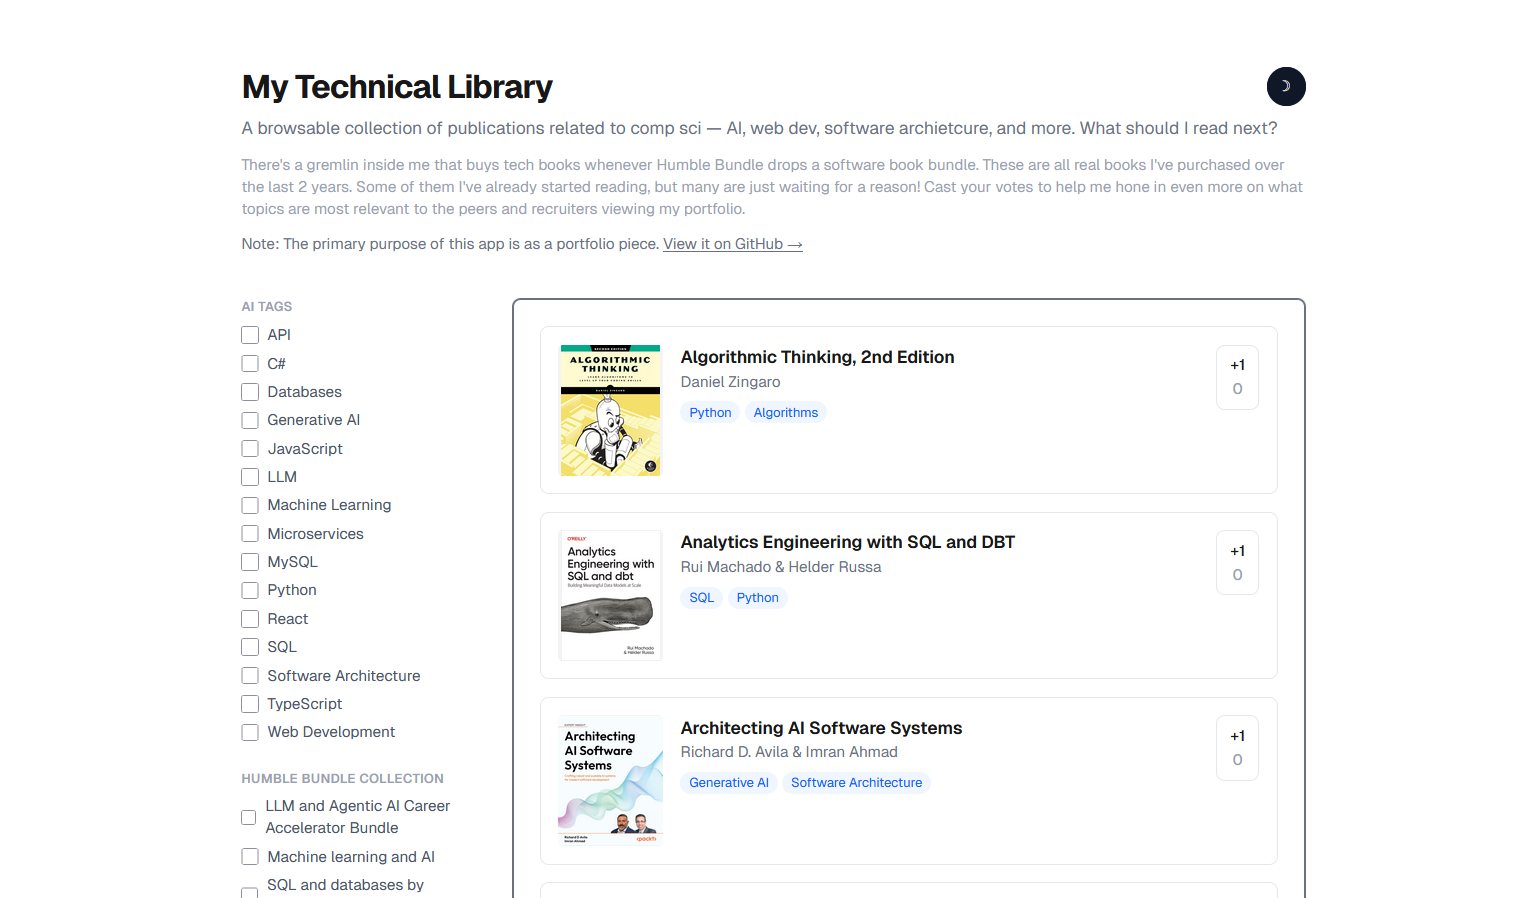
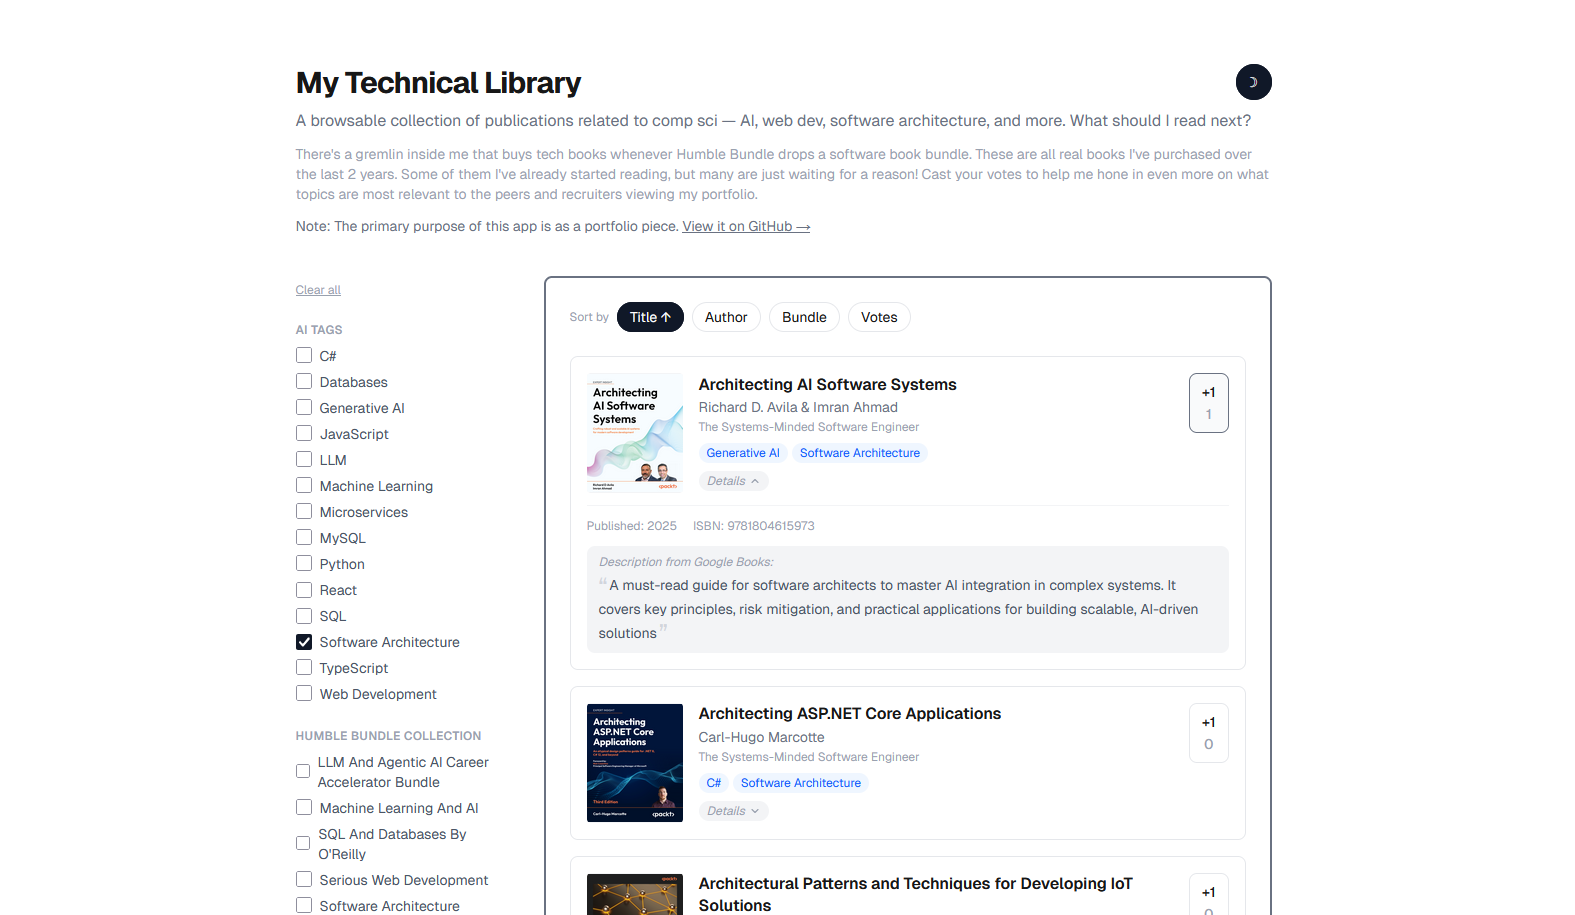
Update readmes, text copies, and screenshot

diff --git a/bookshelf/app/components/BookShelf.tsx b/bookshelf/app/components/BookShelf.tsx
@@ -22,7 +22,7 @@ function IntroText() {
         A browsable collection of publications related to comp sci — AI, web dev, software architecture, and more. What should I read next?
       </p>
       <p className="text-sm text-gray-400 dark:text-gray-500 mt-3">
-        There&apos;s a gremlin inside me that buys tech books whenever Humble Bundle drops a software book bundle. These are all real books I&apos;ve purchased over the last 2 years. Some of them I&apos;ve already started reading, but many are just waiting for a reason! Cast your votes to help me hone in even more on what topics are most relevant to the peers and recruiters viewing my portfolio.{" "}
+        I can&apos;t resist a good Humble Bundle, and that especially includes tech books. Below you will find an interface for browsing all the ones I&apos;ve bought so far, between the various bundles they&apos;ve put out the past few years. Some of these titles I&apos;ve already started reading, but many are just waiting for a reason! Cast your votes to help me hone in even more on what topics are most relevant to the peers and recruiters viewing my portfolio.{" "}
       </p>
       <p className="text-sm text-gray-500 dark:text-gray-500 mt-3">
         Note: The primary purpose of this app is as a portfolio piece.{"  "}

diff --git a/README.md b/README.md
@@ -1,47 +1,70 @@
 # demos
 
-A portfolio built around one project, where I organize and display a bunch of technical books, 
-and where site visitors can provide feedback on which ones tackle skills they're actually
+A portfolio project where I organize and display a bunch of technical books, and 
+where site visitors can provide feedback on which ones tackle skills they're actually
 interested in, adding to an aggregate vote count that reflects general interest.
 
-There's a gremlin inside me that collects nonfiction books in general, but I usually let it win
-whenever Humble Bundle drops a software bundle. The result is a folder of epubs I legitimately
-own and wanted a real interface for. All books in the app are actual books that I own, and all 
-votes reflect real site visitors clicking on buttons over time.
+[Humble Bundle](https://www.humblebundle.com/) is a website that often offer "bundles"
+of games, software, and books, on a myriad of topics. Bundles are often heavily 
+discounted, and a portion of the proceeds go to a particular charity for each bundle.
+As a lover of all books nonfiction, I've gotten most of their tech-related book bundles
+over the last few years. However, many of the books are very topic-specific, and while
+certain titles caught my attention from the get-go, many are as-of-yet unread. 
 
-The app demonstrates full-stack Next.js, Redis-backed data, a Python and TypeScript processing 
-pipeline, and AI engineering as features land. It's also a small piece of public art: anyone
-who visits can see the current vote counts, and what topics have the most interest so far.
+Most of my prior work in the industry has been proprietary, and was left behind with 
+each job transition. Since I am back on the hunt for my next opportunity, I wanted to 
+put together a public repo and live demo, and I figured a bookshelf app with a voting 
+system would make a simple but interesting concept to build around - data ingestion, 
+persistent storage, local state, responsive UI, sorting and filtering logic. All books 
+in the app are actual books that I own, and all votes reflect real site visitors 
+clicking on buttons over time.
 
-## [BookShelf](./bookshelf/) — [live demo](https://demos.maejoh.io/)
+The app demonstrates full-stack Next.js, Redis-backed data (Upstash), a Python and 
+TypeScript processing pipeline. Part of the pipeline also makes calls to the Google 
+Books API, to get book descriptions and fill in missing metadata from the epubs, as 
+well as the Anthropic API, to request an LLM to choose and assign topic tags for the 
+library (referred to as AI tags).
+
+## BookShelf — [live demo](https://demos.maejoh.io/)
 
 ![BookShelf screenshot](./bookshelf/public/demo-screenshot.png)
+
+For more technical details and diagrams, please see the README in the [./bookshelf](./bookshelf) directory. 
 
 ## What's built
 
 - Browsable library with cover art, metadata, and per-book upvotes
-- Redis data store, namespaced by environment (prod / dev / preview)
+- Redis data store, namespaced by environment (prod / dev / prev)
 - Python epub pipeline: OPF extraction → Google Books API enrichment → Redis seed
 - AI tagging via Anthropic API: two-pass vocabulary discovery + bulk assignment across the full library
 
 ## What's coming
 
-- **LLM features** — title recommendations, job description matching, natural language queries
-- **MCP server** — TODO
+- **LLM features** — book recommendations, job description matching, natural language queries
+- **MCP server** — endpoints to enable querying the library and interacting with other LLM features from the UI, but programmatically 
 
 ---
 
 ## Development workflow
 
-This repo uses a customized subset of [garrytan/gstack](https://github.com/garrytan/gstack)
-skills for Claude Code, committed to `.claude/skills/` and auto-discovered — no install
-needed.
+I spent my first 5 years post-graduation coding without AI. I believe that has made an
+enormous difference in my ability to effectively code with AI, and this project was vastly
+expedited by use of Claude Code, generally from the CLI. I work in small steps so that all 
+changes can be reviewed personally, and I frequently correct or redirect the AI when needed, or 
+even just asking for more details and resources so I can properly evaluate what has been written. 
+I still lean heavily on my past experience in similar (if larger) code bases, and have included
+unit tests with coverage tools and sensible splitting of components and standalone logic. I keep 
+the dev server running as I work, and run the unit tests and try out the UI manually as I go, making sure
+to follow the same good principles and practices I would if coding by hand.
+
+In addition to Claude Code's built-in abilities, this repo also uses a customized subset of 
+[garrytan/gstack](https://github.com/garrytan/gstack) skills for Claude Code. These modified skills are 
+included in the repo for viewing, and the customizations summarized below. I have found /plan-ceo-review 
+and /plan-eng-review to be particularly helpful. 
 
 | Skill | Source | Customized? |
 |---|---|---|
 | `/plan-ceo-review` | gstack v1.0.0 | Adapted for TypeScript/Next.js (removed Rails-specific sections) |
 | `/plan-eng-review` | gstack v1.0.0 | Adapted for TypeScript/Next.js (removed Rails-specific sections) |
 | `/review` | gstack v1.0.0 | Greptile integration removed; checklist path updated |
-| `/qa` | gstack v1.0.0 | Template file references removed (files not included) |
-| `/ship` | gstack v1.0.0 | **Heavily customized** — Rails/evals/Greptile/VERSION/CHANGELOG automation removed; replaced with `npm run build` + `npm run lint` per subfolder |
-| `review/checklist.md` | — | **Written from scratch** — portfolio-specific criteria (secrets, build integrity, live+linkable+self-explanatory) |
+| `review/checklist.md` | — | **Written from scratch** |

diff --git a/.claude/skills/review/checklist.md b/.claude/skills/review/checklist.md
@@ -5,31 +5,33 @@
 ### Secrets & Security
 - DO flag: hardcoded API keys, tokens, or credentials in the diff
 - DO flag: `.env` or `.env.local` files added or modified in the diff
-- DO flag: sensitive values in `scripts/book_details.json` or similar data files committed to the repo
+- DO flag: sensitive values in `scripts/output/book_details.json` or similar data files committed to the repo
 
 ### Build integrity
 - DO flag: TypeScript errors that would cause `tsc --noEmit` to fail
 - DO flag: imports referencing modules that don't exist in the diff
 - DO flag: broken Next.js API route handlers (missing default export or wrong handler signature)
 - DO flag: `next.config.ts` changes that could break the Vercel build
+- DO flag: new Python dependencies used in `scripts/book_pipeline/` but not added to `requirements.txt`
 
 ### Portfolio criteria
 - DO flag: hardcoded `localhost` URLs or ports in code that will be deployed to Vercel
 - DO flag: demo pages that require user authentication to view (demos must be publicly accessible)
-- DO flag: missing `README.md` in a newly added demo subfolder
+
+### LLM trust boundary
+- DO flag: API-returned or user-supplied strings rendered directly in the UI without sanitization
+- DO flag: Anthropic API calls that don't handle rate limit or error responses
 
 ## Informational (note, do not block)
 
 ### Code quality
 - Note: unused imports or variables added in the diff
-- Note: `console.log` statements left in production code paths (not scripts/)
+- Note: `console.log` statements left in production code paths (not `scripts/`)
 - Note: TODO comments added in code without a corresponding TODOS.md entry
 - Note: magic strings or numbers that could be named constants
 
 ### Portfolio completeness
-- Note: new demo subfolder added without a `CLAUDE.md` documenting the stack and env vars
-- Note: new demo not referenced in the root `README.md`
-- Note: new environment variables used in code but not documented in the demo's `CLAUDE.md`
+- Note: new environment variables used in code but not documented in `CLAUDE.md`
 - Note: new Vercel environment variable required but not noted anywhere
 
 ### Next.js specifics
@@ -42,10 +44,13 @@
 - Note: new Redis key patterns not following the `{env}:{resource}:{id}` namespace convention
 - Note: Redis reads without a fallback for missing/null values
 
+### Python pipeline
+- Note: new Python scripts in `scripts/book_pipeline/` without a corresponding test file in `tests/scripts/`
+- Note: pytest tests that mock the filesystem without using `tmp_path` (can bleed into real output files)
+
 ## DO NOT flag
 - `package-lock.json` changes (normal dependency lockfile updates)
 - `public/covers/` image additions (expected output from the epub extraction pipeline)
-- `scripts/book_list.json` changes (expected tracking file, not committed)
-- `scripts/book_details.json` (not committed — in .gitignore)
+- `scripts/output/book_list.json` and `scripts/output/book_details.json` (normally excluded for production, but included for this demo)
 - Pre-existing TypeScript strict mode warnings in files not touched by this diff
 - Tailwind CSS class ordering (not enforced)

diff --git a/bookshelf/README.md b/bookshelf/README.md
@@ -53,3 +53,40 @@ npm run dev
 ```
 
 The data pipeline runs locally as well - see the /scripts README for more details.
+
+Current test coverage:
+vitest
+```
+-----------------------|---------|----------|---------|---------|-------------------
+File                   | % Stmts | % Branch | % Funcs | % Lines | Uncovered Line #s
+-----------------------|---------|----------|---------|---------|-------------------
+All files              |   99.53 |     97.7 |     100 |   99.47 |                  
+ app                   |     100 |      100 |     100 |     100 |                  
+  actions.ts           |     100 |      100 |     100 |     100 |                  
+ app/components        |     100 |      100 |     100 |     100 |                  
+  BookList.tsx         |     100 |      100 |     100 |     100 |                  
+  BookShelf.tsx        |     100 |      100 |     100 |     100 |                  
+  BookTile.tsx         |     100 |      100 |     100 |     100 |                  
+  FilterSidebar.tsx    |     100 |      100 |     100 |     100 |                  
+  SortBar.tsx          |     100 |      100 |     100 |     100 |                  
+  ThemeToggle.tsx      |     100 |      100 |     100 |     100 |                  
+ lib                   |     100 |      100 |     100 |     100 |                  
+  books.ts             |     100 |      100 |     100 |     100 |                  
+  utils.ts             |     100 |      100 |     100 |     100 |                  
+ scripts/book_pipeline |   98.18 |     87.5 |     100 |   98.14 |                  
+  seed.ts              |   98.18 |     87.5 |     100 |   98.14 | 115              
+-----------------------|---------|----------|---------|---------|-------------------
+```
+pytest
+```
+Name                                     Stmts   Miss  Cover   Missing
+----------------------------------------------------------------------
+scripts\book_pipeline\__init__.py            0      0   100%
+scripts\book_pipeline\epub.py               69      0   100%
+scripts\book_pipeline\extract_books.py     181      1    99%   319
+scripts\book_pipeline\google_books.py       60      0   100%
+scripts\book_pipeline\tag_books.py         158      2    99%   192, 349
+scripts\book_pipeline\utils.py              35      0   100%
+----------------------------------------------------------------------
+TOTAL                                      503      3    99%
+```
